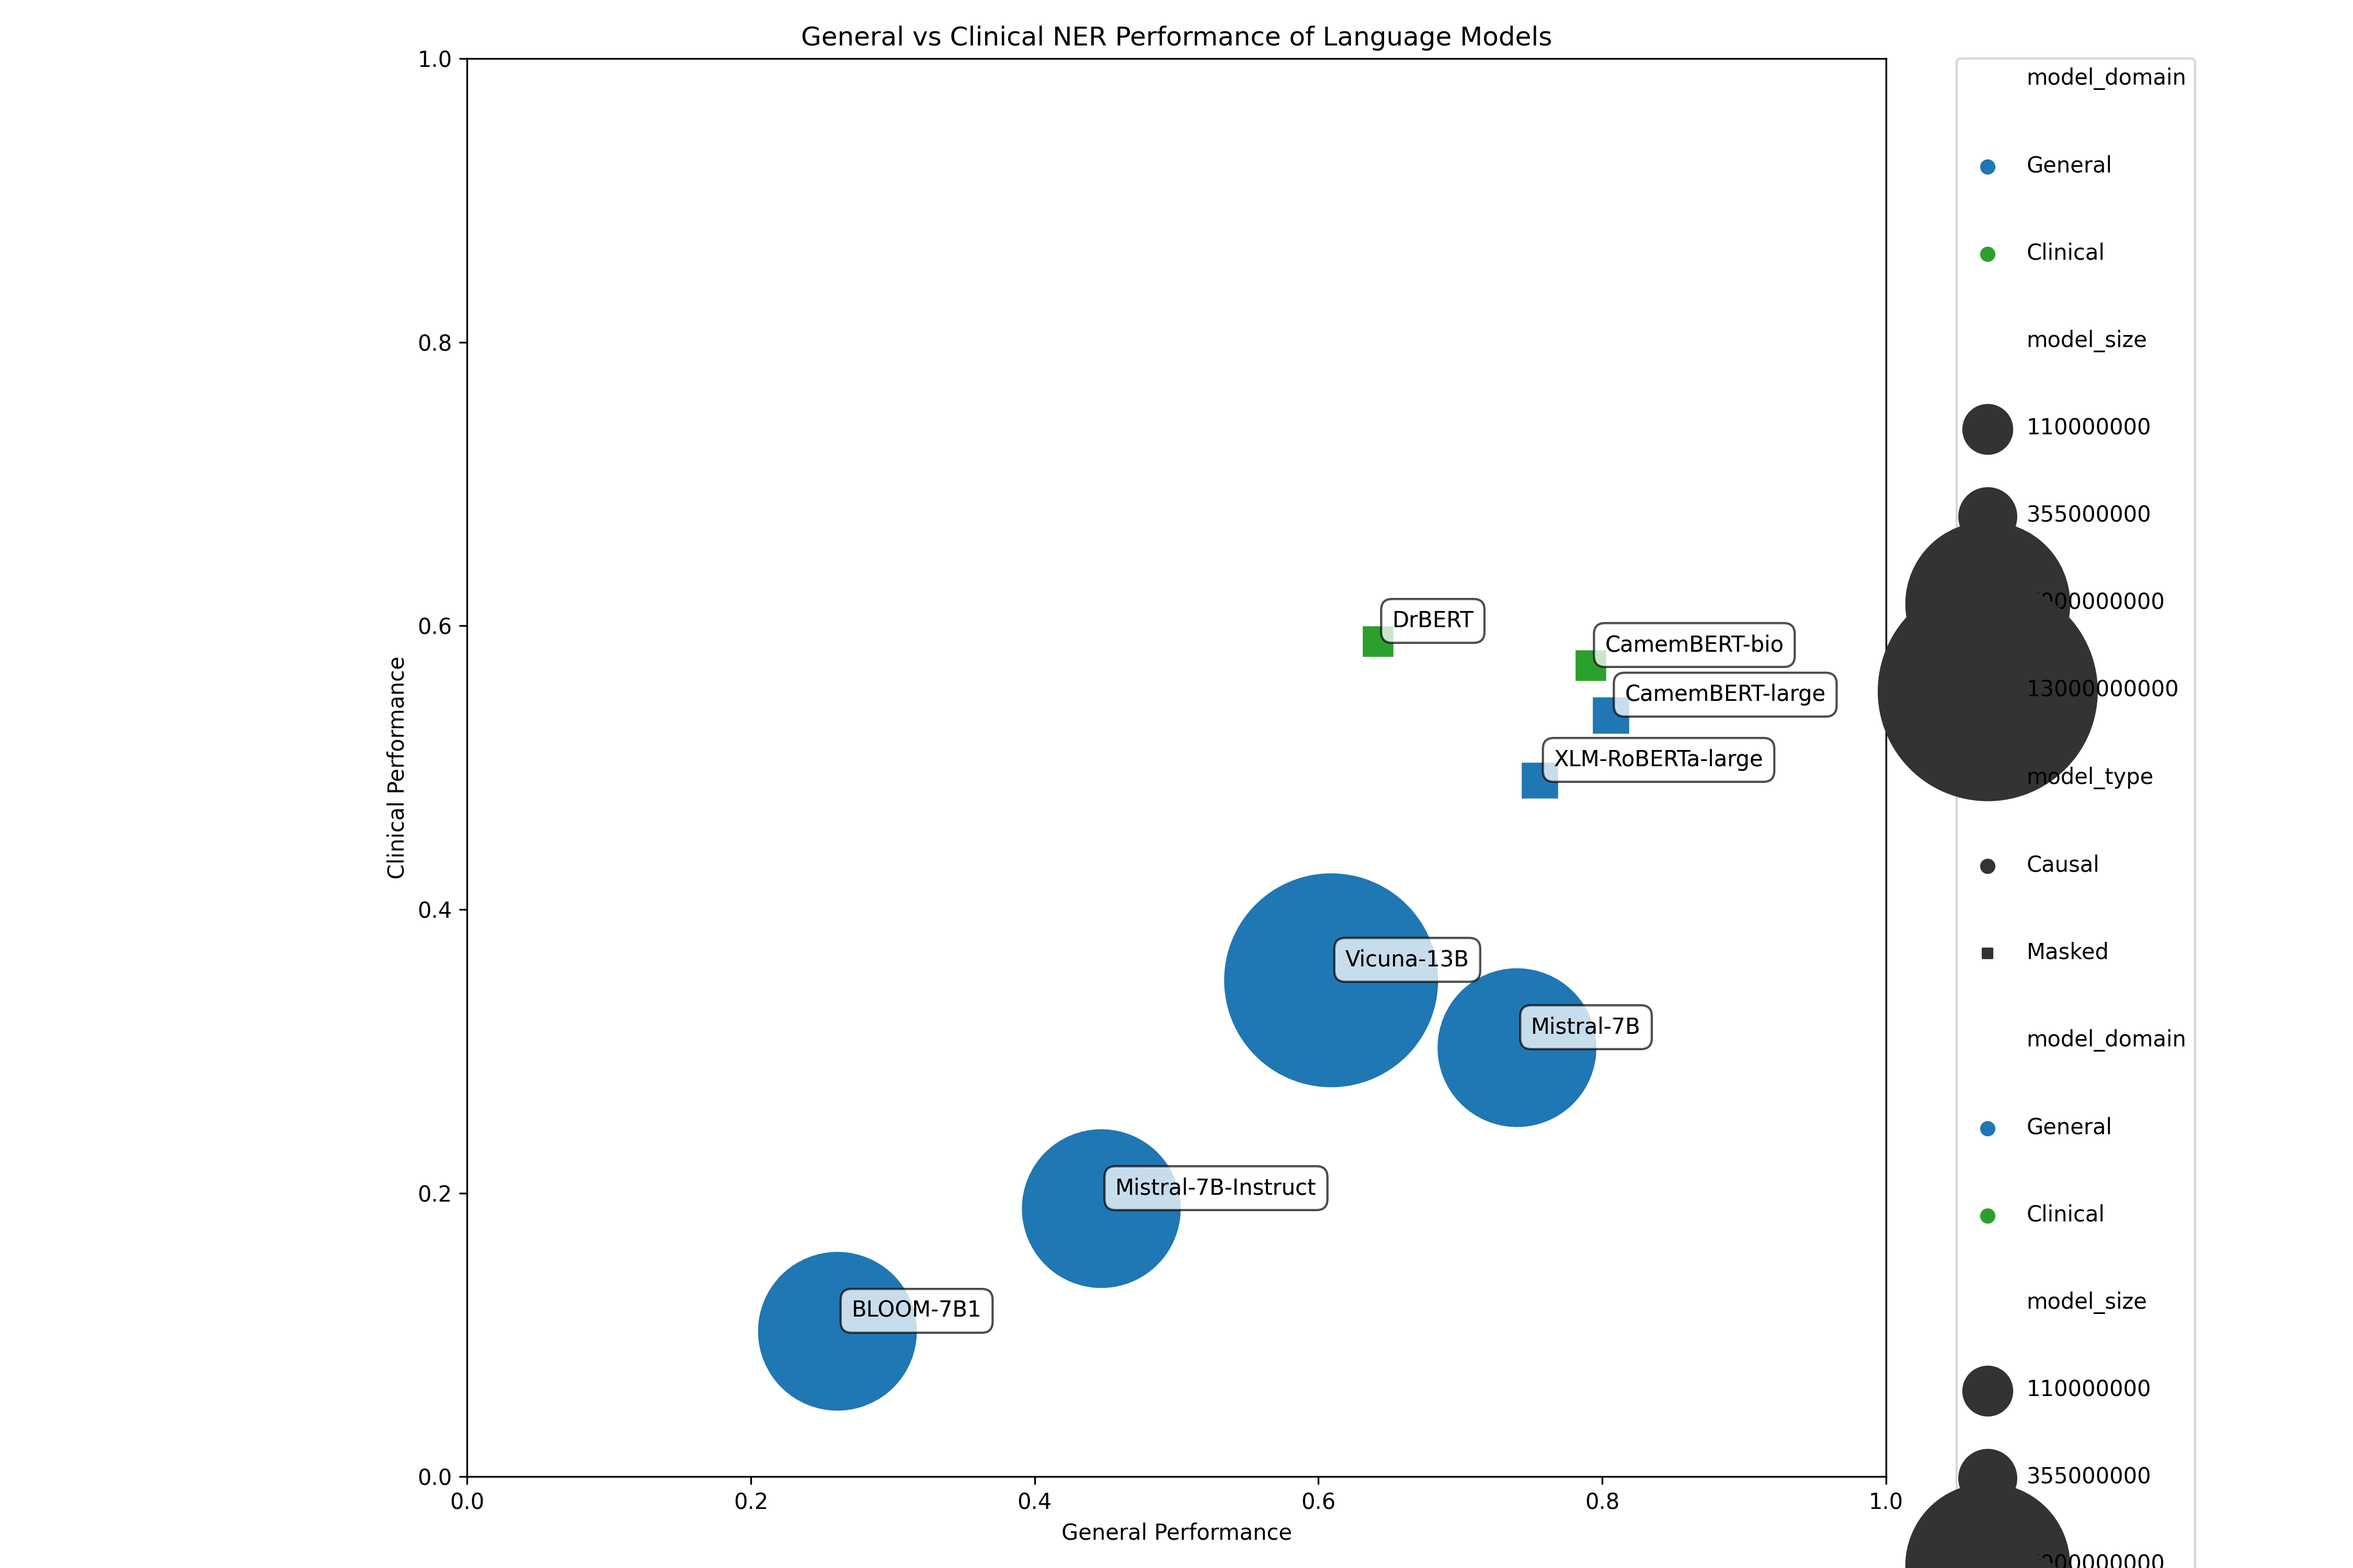
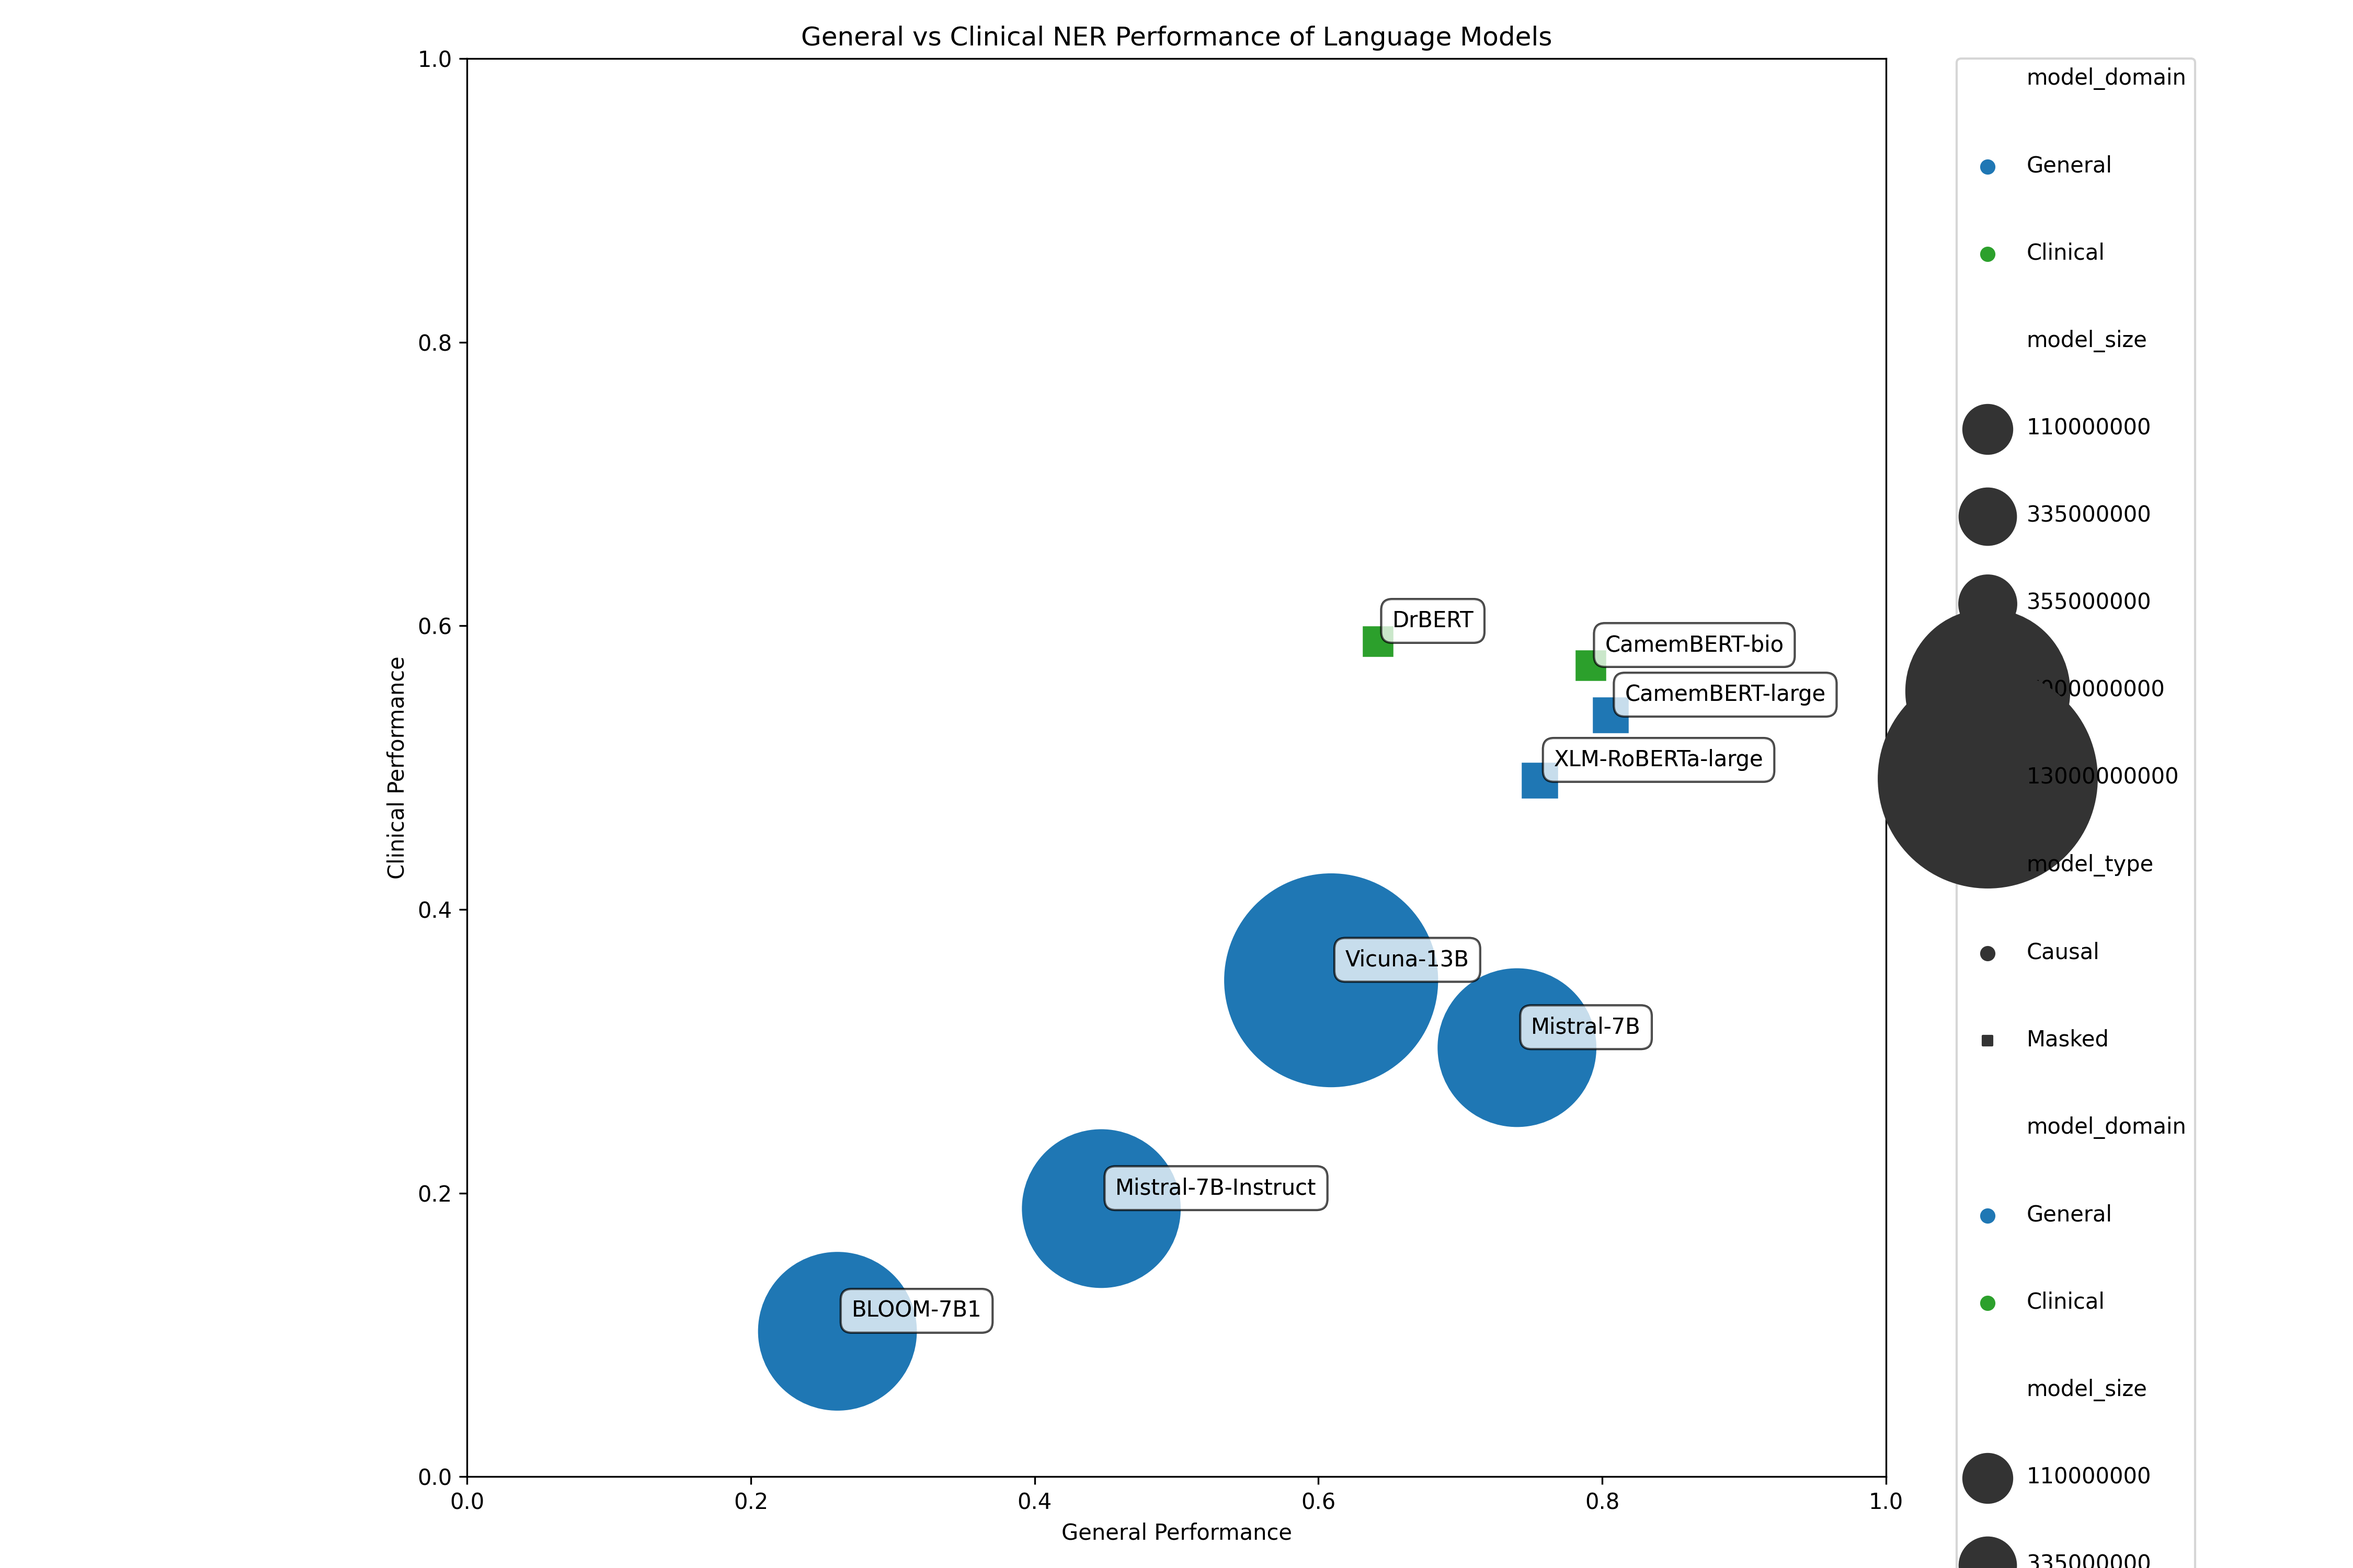
mouais

diff --git a/read_jsons.py b/read_jsons.py
@@ -51,13 +51,13 @@ model_hierarchy = {
             {
                 "name": "camembert-large",
                 "clean_name": "CamemBERT-large",
-                "size": 355*M,
+                "size": 335*M,
                 "languages" : ["fr",],
             },
             {
                 "name": "bert-large-cased",
                 "clean_name": "BERT-large",
-                "size": 340*M,
+                "size": 345*M,
                 "languages" : ["en",],
             },
             {
